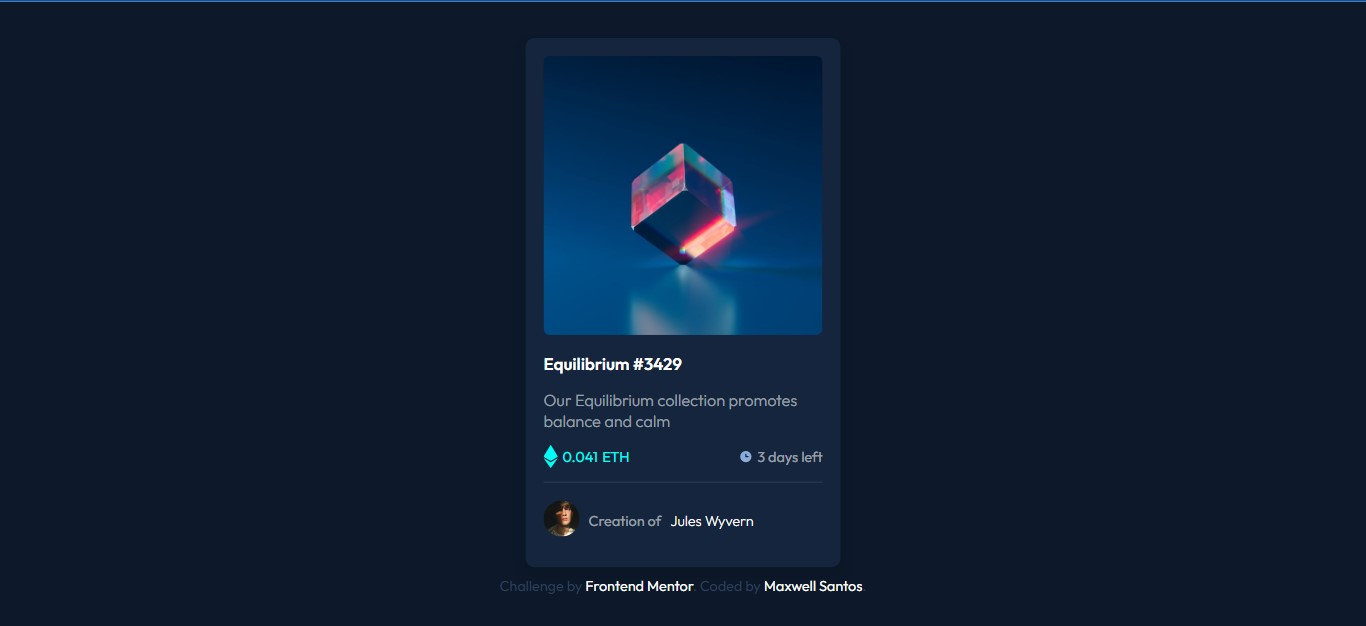
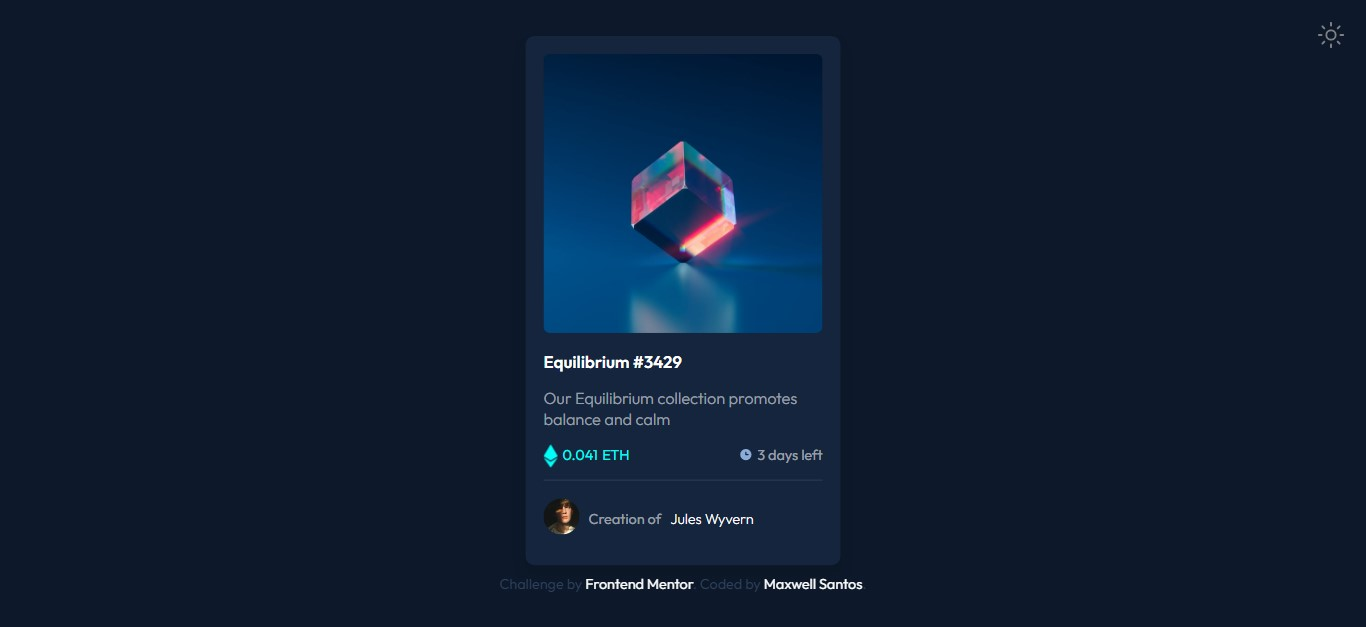
add light mode img

diff --git a/README.md b/README.md
@@ -2,6 +2,8 @@
 ### Screenshot
 
 ![Card NFT](./images/screenshot.jpg)
+## Light-mode
+![Card NFT-light](./images/screenshot-light.jpg)
 ### Links
 
 - Live Site URL: [Card NFT](https://nft-seven-nu.vercel.app/)
